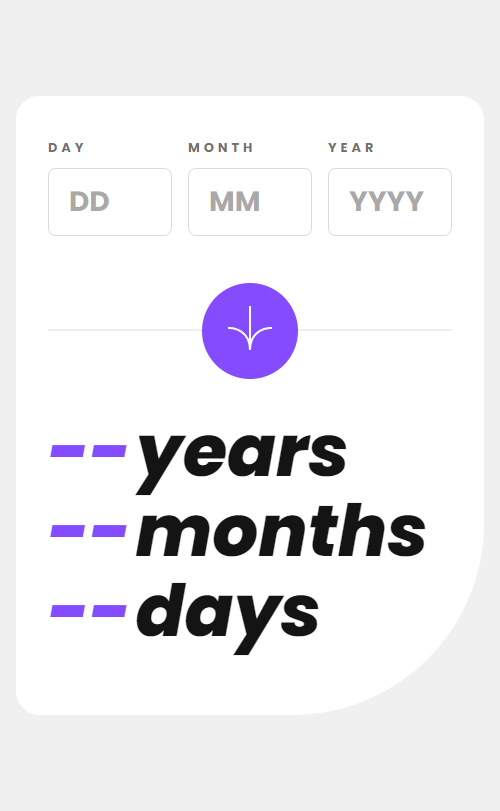
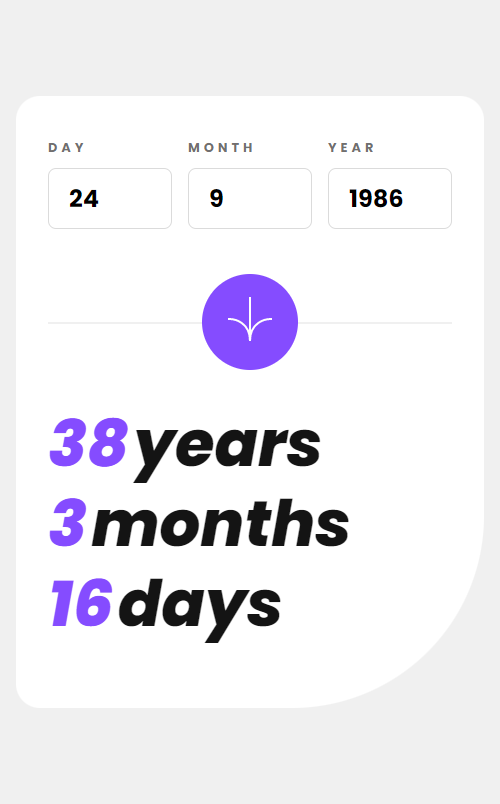
edit styles.css

diff --git a/styles/styles.css b/styles/styles.css
@@ -152,10 +152,17 @@ input::-webkit-inner-spin-button {
   }
 
   input[type=number] {
+    font-size: 1.5rem;
     margin-right: 2rem;
     padding-inline: 1.25rem;
     padding-block: 0.75rem;
     width: 100%;
+  }
+
+  input[type=number]::placeholder {
+    color: hsla(0, 1%, 44%, 0.6);
+    font-weight: 700;
+    font-size: 1.5rem;
   }
 
   #submit-button {
@@ -171,13 +178,13 @@ input::-webkit-inner-spin-button {
   }
 
   #years-display, #months-display, #days-display {
-    font-size: 4.5rem;
+    font-size: 4rem;
     line-height: 5rem;
     letter-spacing: unset;
   }
   
   .years-title, .months-title, .days-title {
-    font-size: 4.5rem;
+    font-size: 4rem;
     line-height: 5rem;
   }
 
